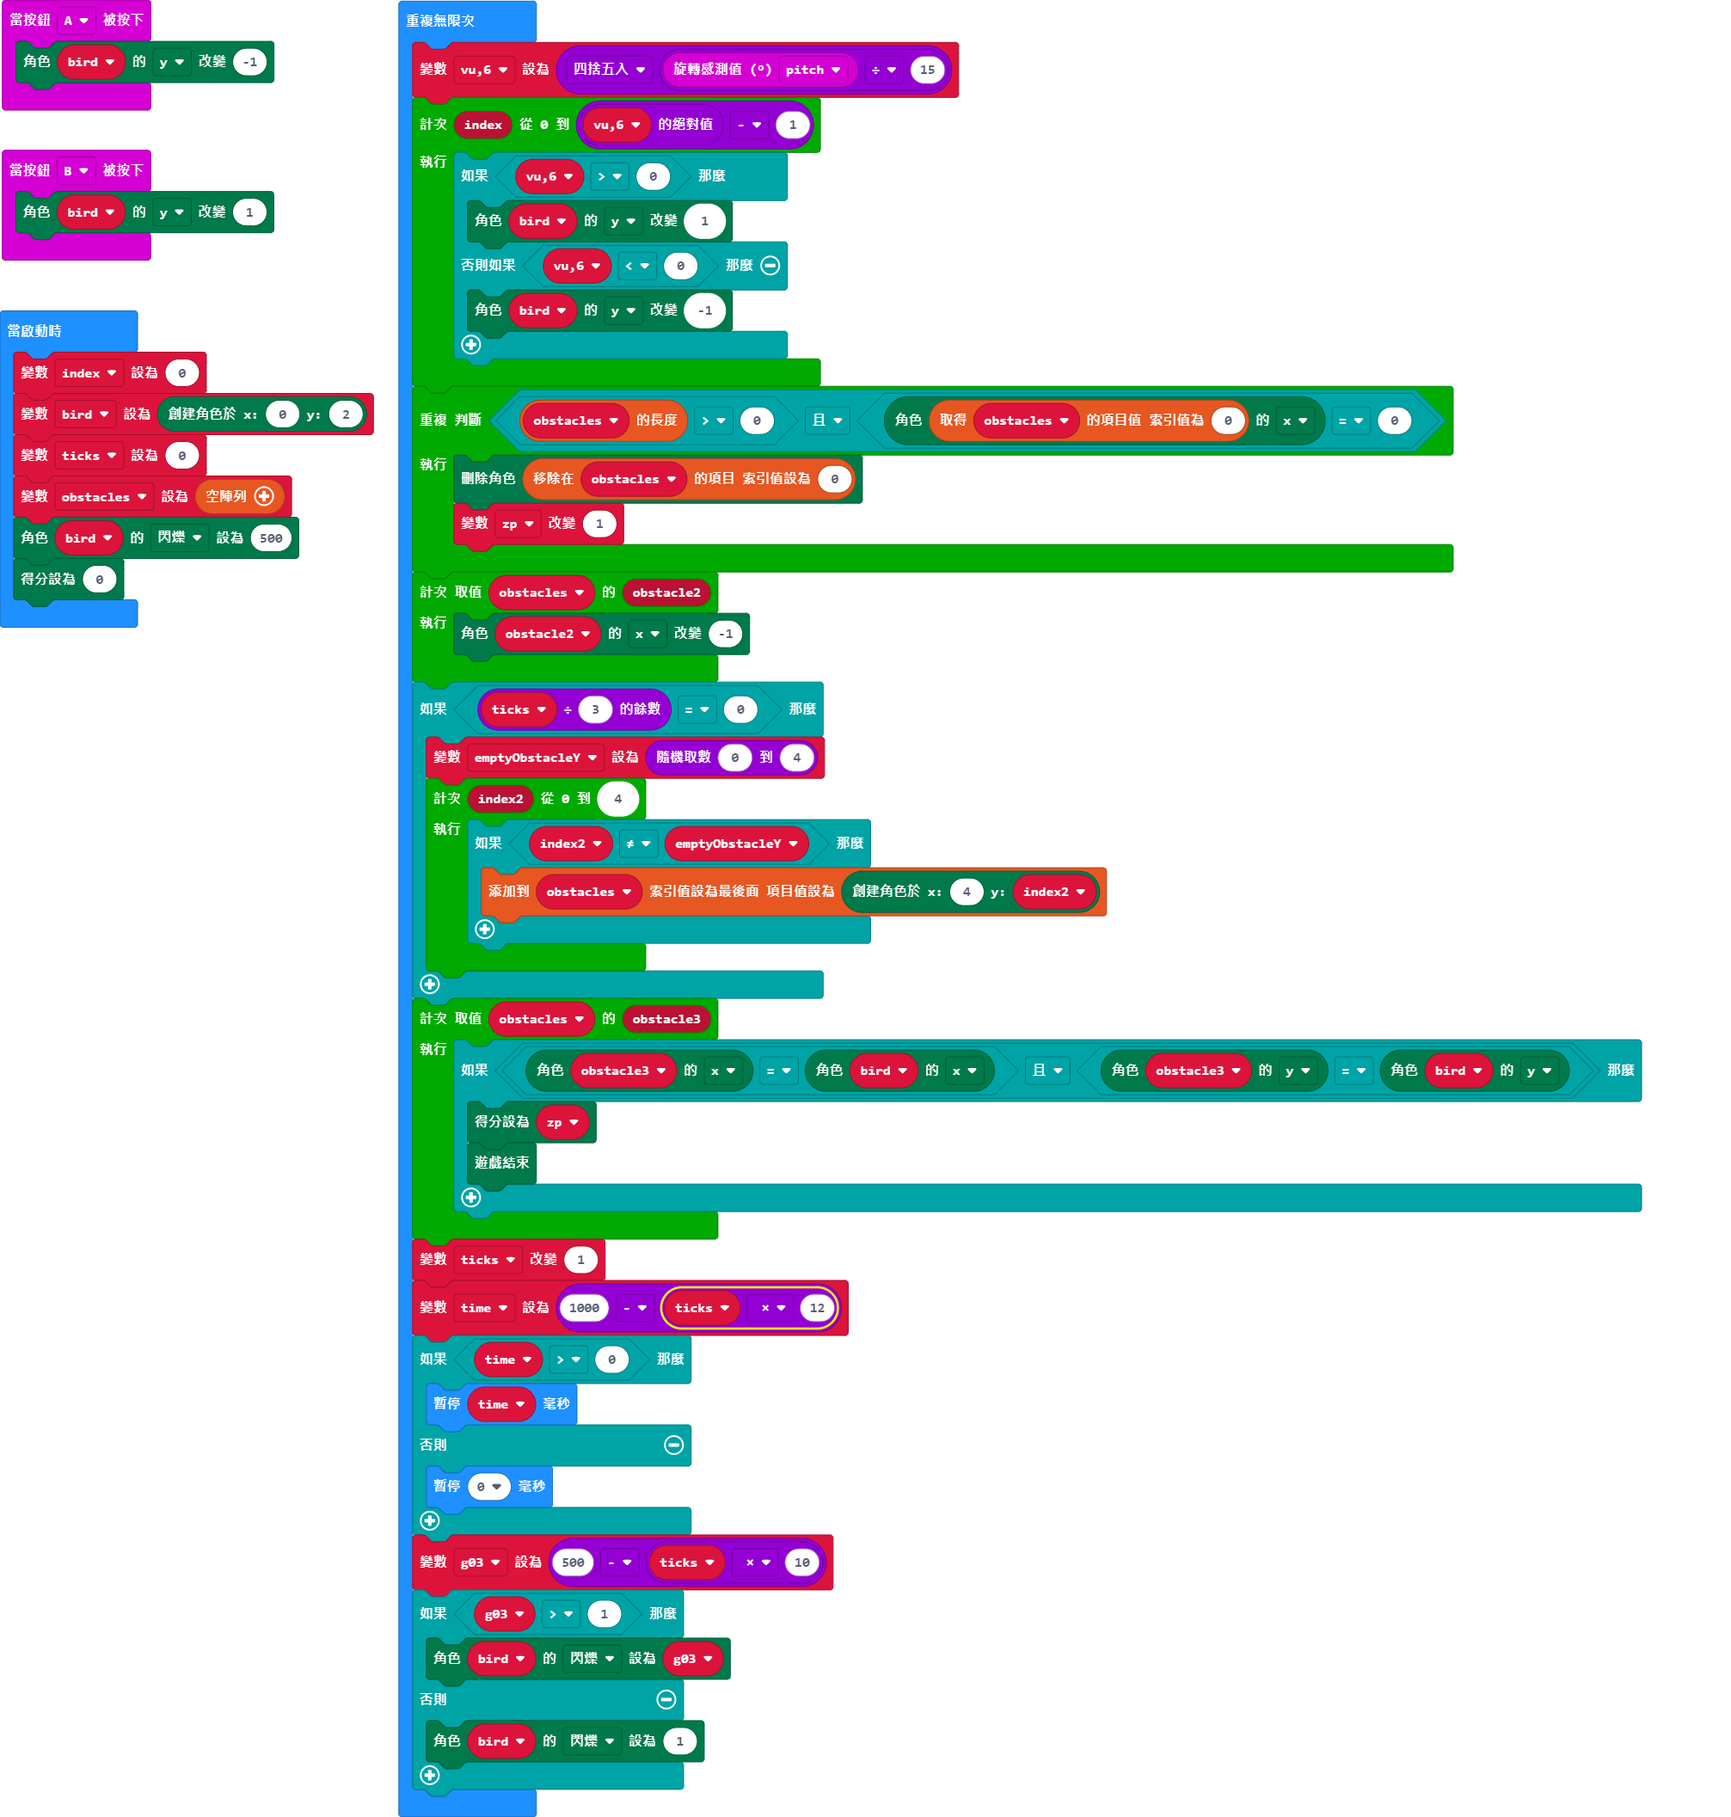
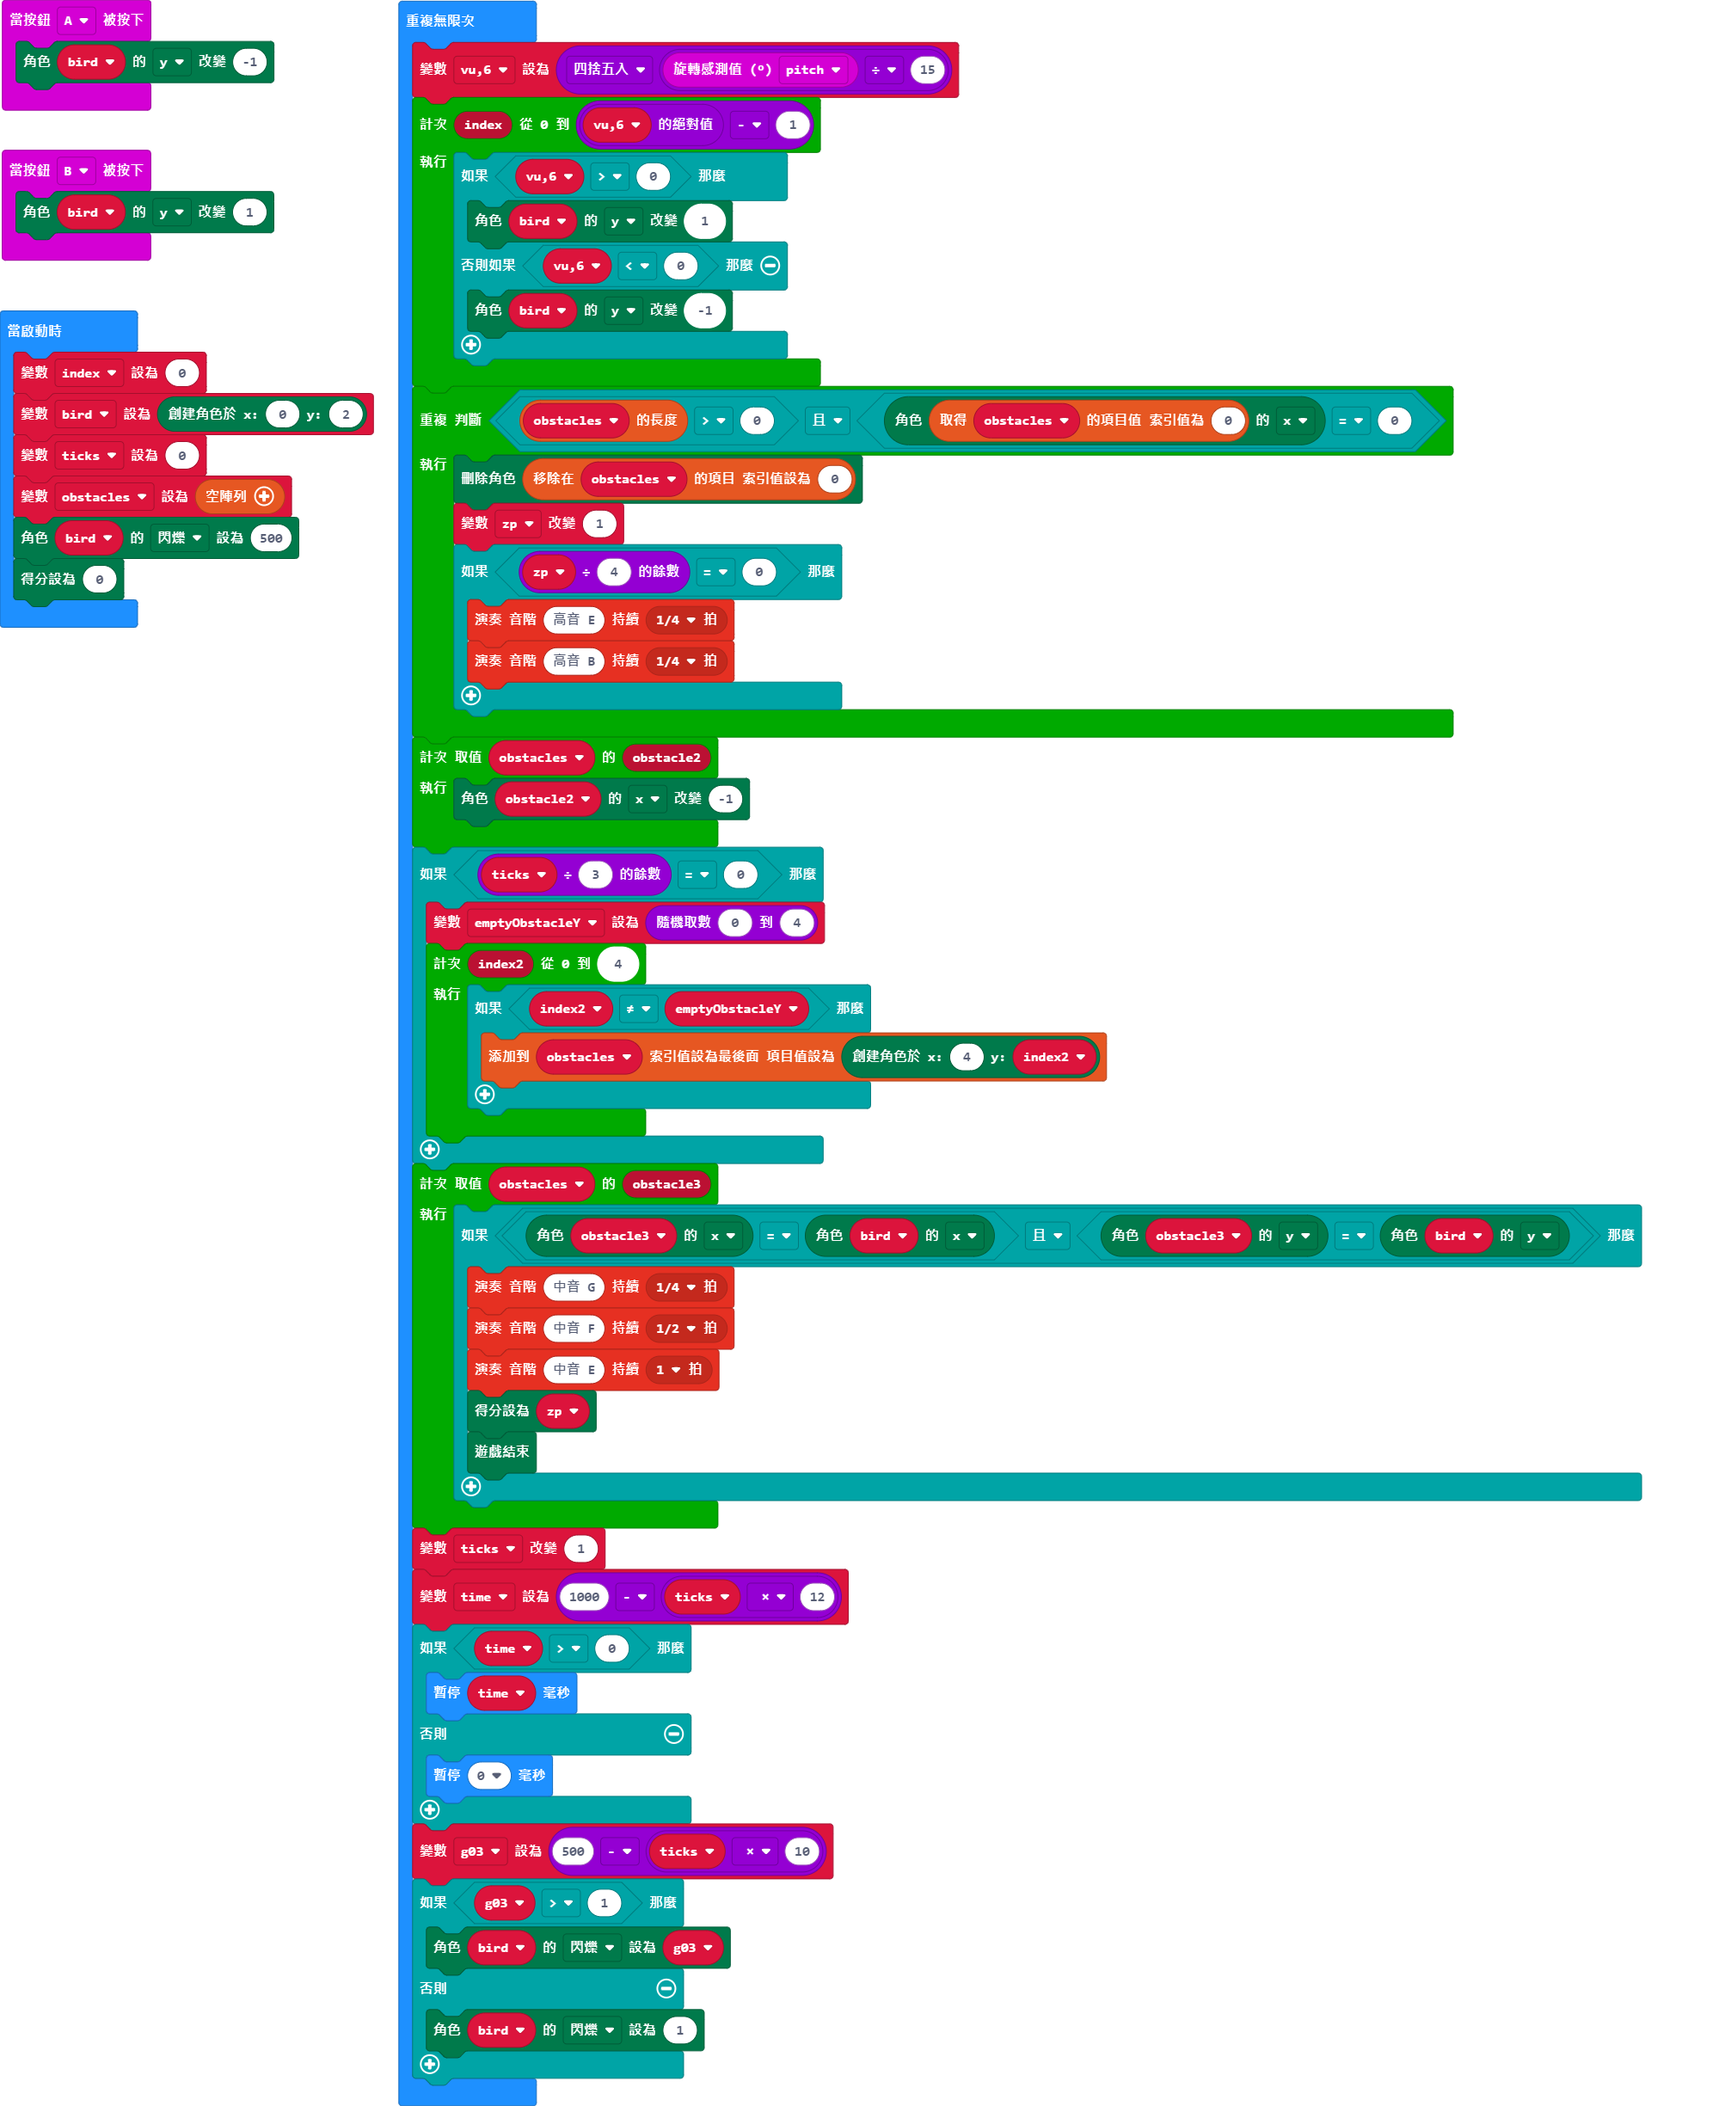
更新 main.ts, main.blocks

Changed region(s): [[0.2156, 0.0, 0.9548, 0.9995], [0.0, 0.0, 0.2156, 0.3436]]

diff --git a/main.ts b/main.ts
@@ -28,6 +28,10 @@ basic.forever(function () {
     while (obstacles.length > 0 && obstacles[0].get(LedSpriteProperty.X) == 0) {
         obstacles.removeAt(0).delete()
         zp += 1
+        if (zp % 4 == 0) {
+            music.playTone(659, music.beat(BeatFraction.Quarter))
+            music.playTone(988, music.beat(BeatFraction.Quarter))
+        }
     }
     for (let obstacle2 of obstacles) {
         obstacle2.change(LedSpriteProperty.X, -1)
@@ -42,6 +46,9 @@ basic.forever(function () {
     }
     for (let obstacle3 of obstacles) {
         if (obstacle3.get(LedSpriteProperty.X) == bird.get(LedSpriteProperty.X) && obstacle3.get(LedSpriteProperty.Y) == bird.get(LedSpriteProperty.Y)) {
+            music.playTone(392, music.beat(BeatFraction.Quarter))
+            music.playTone(349, music.beat(BeatFraction.Half))
+            music.playTone(330, music.beat(BeatFraction.Whole))
             game.setScore(zp)
             game.gameOver()
         }
